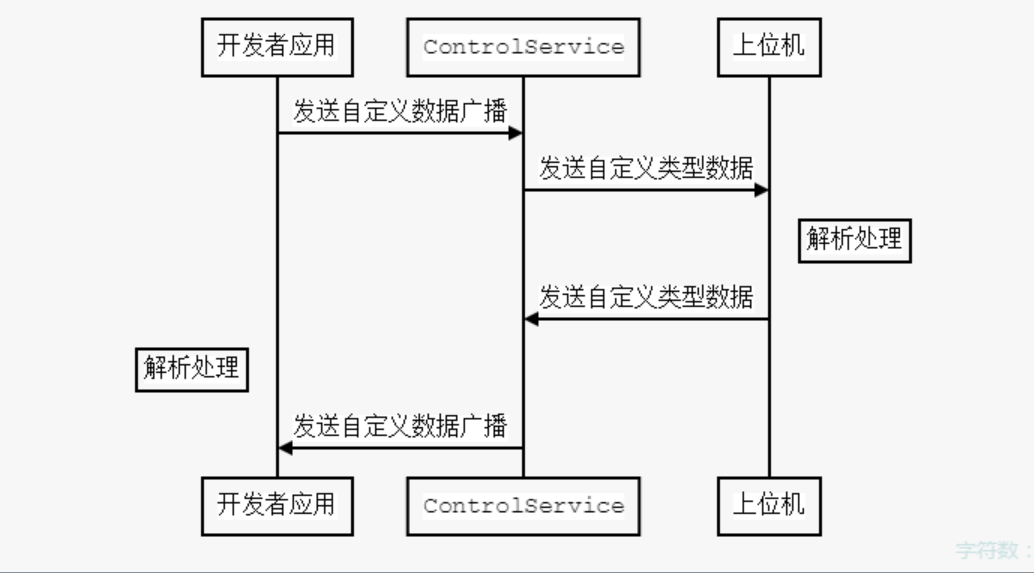
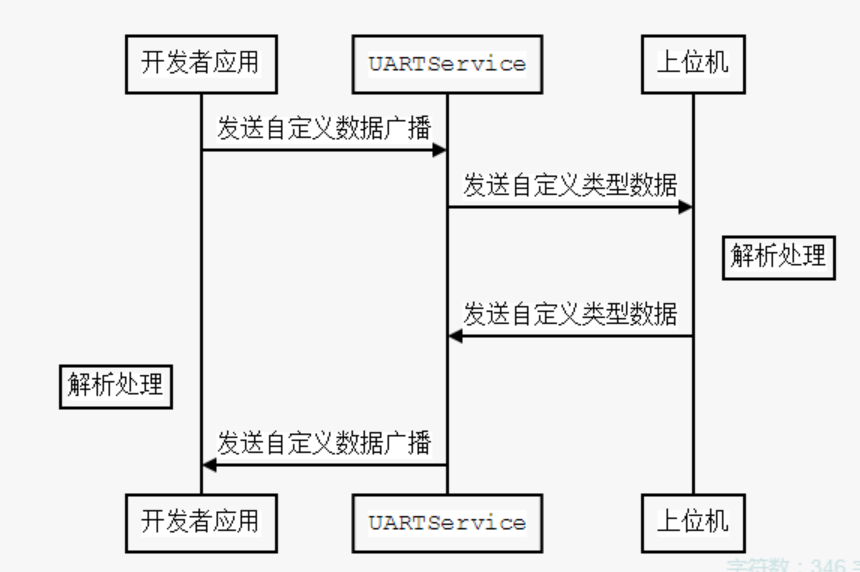
修改：说法细节修改，配图更新

Changed region(s): [[0.0605, 0.0297, 1.0, 1.0]]

diff --git a/conf.py b/conf.py
@@ -112,7 +112,7 @@ language = 'zh'
 # List of patterns, relative to source directory, that match files and
 # directories to ignore when looking for source files.
 # This patterns also effect to html_static_path and html_extra_path
-# exclude_patterns = ['chapters/06_lock_features*']
+exclude_patterns = ['chapters/06_lock_features*']
 
 # The reST default role (used for this markup: `text`) to use for all
 # documents.

diff --git a/c05/config/01_aiuicfg.rst b/c05/config/01_aiuicfg.rst
@@ -71,6 +71,11 @@ AIUI的配置内容格式是json，配置了AIUI运行时各方面的参数::
 			"msc.lat": "" //纬度
 		},
 		
+		/* 用户参数，用于后处理(非必须)*/
+		"userparams":{
+			"xxxx": "xxx", //自定义字段
+		},
+		
 		/* 日志设置 */
 		"log":{
 			"debug_log":"1",
@@ -138,14 +143,14 @@ AIUI的配置内容格式是json，配置了AIUI运行时各方面的参数::
 +---------+--------------------+---------------------+----------------------------------------------------------------+
 |         |                    |                     | | **资源类型**                                                 |
 |         |                    |                     | |                                                              |
-|         |                    |   res_path          | | 取值同tts参数res_type说明                                    |
+|         |                    |   res_type          | | 取值同tts参数res_type说明                                    |
 |ivw      |语音唤醒参数        +---------------------+----------------------------------------------------------------+
 |         |                    |   res_path          | | 唤醒资源文件路径，必须与res_type匹配。                       |
 +---------+--------------------+---------------------+----------------------------------------------------------------+
 |         |                    |   threshold         | | **语法识别得分门限值**                                       |
 |         |                    |                     | |                                                              |
 |         |                    |                     | | 只有当识别结果得分高于门限时才对外抛出。                     |
-|         |                    |   res_type          | | 取值：[0，100]，默认值：0。                                  |
+|         |                    |                     | | 取值：[0，100]，默认值：0。                                  |
 |asr      |离线语法识别参数    +---------------------+----------------------------------------------------------------+
 |         |                    |   res_type          | | 同ivw，使用离线语法时必须设置                                |
 |         |                    +---------------------+----------------------------------------------------------------+
@@ -173,7 +178,7 @@ AIUI的配置内容格式是json，配置了AIUI运行时各方面的参数::
 |         |                    |                     | |                                                              |
 |         |                    |                     | |   问：叮咚叮咚，给我唱首歌 //说完后AIUI即进入休眠状态        |
 |         |                    |                     | |   答：请欣赏xxxx                                             |
-|         |                    |                     | | 后续AIUI因已休眠不能继续交互,需按如上的说法才能继续交互      |
+|         |                    |                     | | 后续AIUI因已休眠不能继续交互,需重新唤醒才能继续交互          |
 +---------+--------------------+---------------------+----------------------------------------------------------------+
 |         |                    |   sound_card        | | **声卡设备号**                                               |
 |         |                    |                     | |                                                              |
@@ -203,7 +208,7 @@ AIUI的配置内容格式是json，配置了AIUI运行时各方面的参数::
 |         |                    |                     | |                                                              |
 |         |                    |                     | | 取值：[-1，+∞)                                               |
 |         |                    |   datalog_size      | | 默认值：-1（表示无大小限制）。                               |
-|         |                    |                     | | 注意：设置成-1可能会造成SD卡被日志写满，从来导致AIUI         |
+|         |                    |                     | | 注意：设置成-1可能会造成SD卡被日志写满，从而导致AIUI         |
 |         |                    |                     | | Service性能下降，影响体验效果。                              |
 +---------+--------------------+---------------------+----------------------------------------------------------------+
 

diff --git a/c04/uartkit/01_protocal.rst b/c04/uartkit/01_protocal.rst
@@ -57,7 +57,7 @@ AIUI使用模块上的串口UART1，对应文件系统下的/dev/ttyS2。
 
 * 接收方接到请求后需在50ms内发送响应；
  
-* 发送方发送完成后若超过300ms未得到响应则判定为超时进行重发，重发次数为3次。
+* 除确认消息外发送方发送完成后若超过300ms未得到响应则判定为超时进行重发，重发次数为3次。
 
 .. _conmunicate_protocal-label:
 
@@ -241,7 +241,7 @@ type为tts，发送文本让AIUI开始合成播放或者停止合成播放:
 			  "type": "tts",
 			  "content": {
 				  "action": "start",  //开始合成
-				  "text": "xxx"       //需要合成播放的文本(注意文本的编码格式要为utf-8)
+				  "text": "xxx",       //需要合成播放的文本(注意文本的编码格式要为utf-8)
 				  "parameters" : {
 					  "emot" : "xxx" //emot值为neutral，happy，sorrow中一个
 					  "xxx" : "xxx" // TTS支持设置的其他参数
@@ -254,7 +254,7 @@ type为tts，发送文本让AIUI开始合成播放或者停止合成播放:
 		  {
 			  "type": "tts",
 			  "content": {
-				  "action": "stop",  //停止合成
+				  "action": "stop"  //停止合成
 			  }
 		  }
 
@@ -269,7 +269,7 @@ type为smartcfg，控制AIUI模块smartconfig功能开关:
 			"type": "smartcfg",
 			"content": {
 				"cmd": "start",
-				"timeout": 60 //接收smartconfig配置的超时
+				"timeout": 60 //接收smartconfig配置的超时时间
 			}
 		}
 		
@@ -278,7 +278,7 @@ type为smartcfg，控制AIUI模块smartconfig功能开关:
 		{
 			"type": "smartcfg",
 			"content": {
-				"cmd": "stop",
+				"cmd": "stop"
 			}
 		}
 	
@@ -299,15 +299,15 @@ type为smartcfg，控制AIUI模块smartconfig功能开关:
 			"content": {
 				"type_filter" : {
 					"select" : [],
-					"unselect": [],
+					"unselect": []
 				},
 				"sub_filter": {
 					"select" : [],
-					"unselect": [],
+					"unselect": []
 				},
 				"service_filter": {
 					"select" : [],
-					"unselect": [],
+					"unselect": []
 				}
 			}
 		}
@@ -322,7 +322,7 @@ type为smartcfg，控制AIUI模块smartconfig功能开关:
 AIUI消息是AIUI模块传递给上位机的消息，表示听写语义数据返回或者主控消息操作的结果。
 原始内容格式为JSON，**但是为了传输的效率，实际消息内容采用了GZIP压缩格式**。
 
-AIUI消息根据type的不同，解析不同的数据。
+AIUI消息根据type字段的不同值解析数据。
 
 4.2.1.10.1 WIFI状态
 """""""""""""""""""""
@@ -342,7 +342,7 @@ type为wifi_status，代表WIFI状态查询返回或者当AIUI网络状态变化
 4.2.1.10.2 AIUI结果事件
 """""""""""""""""""""""""
 	
-type为aiui_event，代表为AIUI语义结果返回，总体结构示例::
+type为aiui_event，代表AIUI结果返回，总体结构示例::
 
 	{
 		 "type": "aiui_event",
@@ -377,7 +377,7 @@ type为tts_event，表示合成事件:
 			  "type": "tts_event",
 			  "content": {
 				  "eventType": 1,        //合成结束事件
-				  "error": ttsErrorCode  //当发生错误时error字段代表合成错误码
+				  "error": ttsErrorCode  //0表示成功;发生错误时代表合成错误码
 			  }
 		  }
 

diff --git a/c02/03_use.rst b/c02/03_use.rst
@@ -12,7 +12,20 @@
 
 以下为一些交互问法的示例：
 
-.. image:: sample1.png
+音乐::
+
+	叮咚叮咚
+	我想听张学友的歌
+	下一首
+	声音大一点
+	
+诗词::
+
+	叮咚叮咚
+	李白的静夜思
+	换他的望庐山瀑布
+	春眠不觉晓的下一句
+	这首诗是谁写的
 
 2.3.2 LED灯提示
 ----------------
@@ -24,7 +37,7 @@
 +-------------------+--------------------+
 |休眠状态           |灯灭                |
 +-------------------+--------------------+
-|未连接             |WiFi 红灯闪烁       |
+|未连接WiFi         | 红灯闪烁           |
 +-------------------+--------------------+
 |APPID校验不通过    | 红灯常亮           |
 +-------------------+--------------------+
@@ -42,15 +55,15 @@ Q：开发板可以外接屏幕吗
 	A：不能。
 
 Q：唤醒无声音播报
-	A：参考 :ref:`AIUI配置 <aiui_client_config>` 中配置时确保勾选了\ **勾选启动后处理程序**\ 。
+	A：参考 :ref:`AIUI配置 <aiui_client_config>` 中配置时确保勾选了\ **启动AUI启动后处理程序**\ 。
 	
 Q：交互一段时间后，去休息了，需要再次唤醒
 	A：当 AIUI 发现超过 1 分钟（可设置）没有有效交互结果时，即会自动进入休眠状态。
 	关于AIUI交互的休眠机制参见\ :ref:`休眠 <wakeup_sleep-label>`\ 。
 
 Q：问法无回复播报
-	A：AIUI根据已勾选的语义技能进行处理返回，本地客户端根据结果进行解析播报。
-	如果有问法没有回复播报，按如下方法检查:
+	A：AIUI后台根据已勾选的语义技能对输入进行处理返回，本地客户端根据结果进行解析播报。
+	如果有问法没有响应播报，按如下方法检查:
 		
 		1. 查看手机端的语义结果返回，根据 :ref:`语义结果 <nlp_result-label>` 中字 ``rc`` 字段判断
 		
@@ -58,13 +71,13 @@ Q：问法无回复播报
 				有语义结果，没有播报是本地解析播报的问题，\ :ref:`联系我们反馈 <contact_us-label>`\ 。
 				
 			rc字段为4
-				没有语义结果，检查服务端有没有对相应的语义进行勾选。
+				没有语义结果，检查后台有没有勾选对相应的语义技能。
 				如果已勾选，那是语义未覆盖该说法的原因，\ :ref:`联系我们反馈 <contact_us-label>`\ 。
 	
 .. _result_timeout-label:
 	
 Q：网络有点问题，我去休息了错误
-	A：该播报由超时错误10120引起，识别语音上传后语义或者听写结果没有在特定时间（ :ref:`配置文件result_timeout定义 <aiui_cfg_label>` ）返回，则会出现10120错误。
+	A：该播报由超时错误10120引起。交互语音上传后，听写或者语义结果没有在特定时间（ :ref:`配置文件result_timeout定义 <aiui_cfg_label>` ）返回，则会出现10120错误。
 
 		出现10120错误的原因有可能是网络状态差或者服务器处理缓慢的原因，可以按照如下方式验证排查：
 

diff --git a/c04/uartkit/04_uart_QA.rst b/c04/uartkit/04_uart_QA.rst
@@ -1,5 +1,5 @@
 ----------------
-4.2.5 常见问题
+4.2.4 常见问题
 ----------------
 
 
@@ -41,10 +41,10 @@ Q:  底板上有两个串口，AIUI使用了UART1，开发程序可以使用UART
 		可以考虑使用\ :ref:`串口自定义 <uart_custome-label>`\ 的功能。
 
 		如果对AIUI本身的串口功能无依赖，\ :ref:`AIUI软件内部关系 <demoboard_relationship-label>`\ 中
-		ControlService负责串口通信，所以将ControlService卸载即可独立读写串口（不推荐）。
+		UARTService负责串口通信，所以将UARTService卸载即可独立读写串口（不推荐）。
 		
 Q：使用UARTKit SDK时设备初始化失败
-	A：设备初始化失败导致的原因有两种，一个是设备打开失败，可能由设备名不存在、没有权限；第二是设备设置失败，
+	A：导致设备初始化失败的原因有两种，第一是设备打开失败，可能由于设备不存在、没有权限；第二是设备设置失败，
 	因为不同上位机的串口配置不一样，UARTKit SDK的串口初始化设置仅在评估板上测试可用，所以需要开发者自己更改UARTKit
 	SDK中设备初始化参数的代码，自行修改测试实现。
 	
@@ -57,11 +57,11 @@ Q: 使用UARTKit SDK串口功能不正常
 		
 Q：使用UARTKit SDK时日志中频繁出现DropHead，长时间不回调消息接收
 	A：串口数据结构定义中定义了\ :ref:`同步头 <uart_data_format-label>`\ ，在底层进行数据接收中，会从数据流中
-	匹配同步头，作为一条消息的数据开始标记，如果数据流中一致没有同步头，那就会一直打印drop head的日志。这种情况
+	匹配同步头，作为一条消息的数据开始标记，如果数据流中一直没有同步头，那就会一直打印drop head的日志。这种情况
 	大部分的原因是上位机接收有误导致，可以打印具体接收的数据和定义的串口数据格式比较确定。
 	
 Q：使用UARTKit SDK时底层打印接收日志，但是一直不回调消息接收
-	A：如上Drop Head的问题，串口接收数据时再寻找到消息数据开始的同步头后，会根据其后的\ :ref:`长度信息 <uart_data_format-label>`\ 接收
+	A：如上Drop Head的问题，串口接收数据时在寻找到消息数据开始的同步头后，会根据其后的\ :ref:`长度信息 <uart_data_format-label>`\ 接收
 	一定长度的数据，然后校验通过后向上传递，如果接收数据有误，导致长度信息解析过大，那后面所有正常的消息都会当作这条消息的数据一直
 	接收，导致上层长时间没有消息回调接收，即使该消息接收完成，也会因为校验不通过直接丢弃。
 	

diff --git a/c05/msg&event/01_aiuimessage.rst b/c05/msg&event/01_aiuimessage.rst
@@ -43,12 +43,14 @@
 |                           |         |      | |                                                                                          |
 |                           |         |      | | 用params携带参数设置JSON字符串，                                                         |
 |                           |         |      | | 具体格式参照aiui.cfg文件。                                                               |
-|                           |         |      | | 暂时可以用如下参数，实时生效                                                             |
+|                           |         |      | | 目前可以修改如下参数，实时生效                                                           |
 |                           |         |      | |                                                                                          |
 |                           |         |      |                                                                                            |
 |                           |         |      |   * global                                                                                 |
 |                           |         |      |   * ivw                                                                                    |
 |                           |         |      |   * speech                                                                                 |
+|                           |         |      |   * audioparams                                                                            |
+|                           |         |      |   * userparams                                                                             |
 |                           |         |      |                                                                                            |
 |                           |         |      |   示例::                                                                                   |
 |                           |         |      |                                                                                            |

diff --git a/appendix/02_errorcode.rst b/appendix/02_errorcode.rst
@@ -56,5 +56,13 @@
 +---------------------------------+--------------+-------------------------------------------+------------------------------------------------------------+
 |ERROR_AITALK_INVALID_GRAMMAR     | 23109        | 识别语法错误                              | | 检查编译的离线语法                                       |
 +---------------------------------+--------------+-------------------------------------------+------------------------------------------------------------+
+|ERROR_TTS_INVALID_PARA           | 24000        | TTS参数错误                               | | 检查配置文件TTS设置                                      |
++---------------------------------+--------------+-------------------------------------------+------------------------------------------------------------+
+|ERROR_TTS_INVALID_PARA_VALUE     | 24001        | TTS参数值错误                             | | 检查配置文件TTS设置                                      |
++---------------------------------+--------------+-------------------------------------------+------------------------------------------------------------+
+|ERROR_TTS_INVALID_RESOURCE       | 24005        | TTS无效资源                               | | 检查配置文件TTS设置                                      |
++---------------------------------+--------------+-------------------------------------------+------------------------------------------------------------+
+|ERROR_TTS_INVALID_VOICE_NAME     | 24006        | TTS无效发音人                             | | 检查配置文件TTS设置                                      |
++---------------------------------+--------------+-------------------------------------------+------------------------------------------------------------+
 |ERROR_UNKNOWN                    | 20999        | 未知错误                                  | | 未知错误                                                 |
 +---------------------------------+--------------+-------------------------------------------+------------------------------------------------------------+

diff --git a/c03/02_softcore.rst b/c03/02_softcore.rst
@@ -24,7 +24,7 @@ AIUI软核方案对开发者的硬件设计和录音都有一定的要求：
 3.2.2 麦克风阵列软核方案到AIUI软核方案
 ^^^^^^^^^^^^^^^^^^^^^^^^^^^^^^^^^^^^^^^
 
-如果采用了麦克风阵列的软核方案，那迁移到AIUI软核方案就十分简单，因为上面提到的加密芯片和录音的要求均以达到。
+如果采用了麦克风阵列的软核方案，那迁移到AIUI软核方案就十分简单，因为上面提到的加密芯片和录音的要求均已达到。
 
 按以下步骤集成：
 
@@ -36,7 +36,7 @@ AIUI软核方案对开发者的硬件设计和录音都有一定的要求：
 	* 加密密钥挂载位置
 	* 通道号是默认还是有其他需求
 
-2. 修改AIUI配置文件中的\ ``alsa``\ 参数下的\ ``sound_card``\ 和\ ``simple_rate``\ 参数为麦克风软核阵列方案确定的录音参数。
+2. 修改AIUI配置文件中的\ ``alsa``\ 参数下的\ ``sound_card``\ 和\ ``sample_rate``\ 参数为麦克风软核阵列方案确定的录音参数。
 
 3. 开发集成参考\ :ref:`核心板模式 <coreboad-label>`。
 
